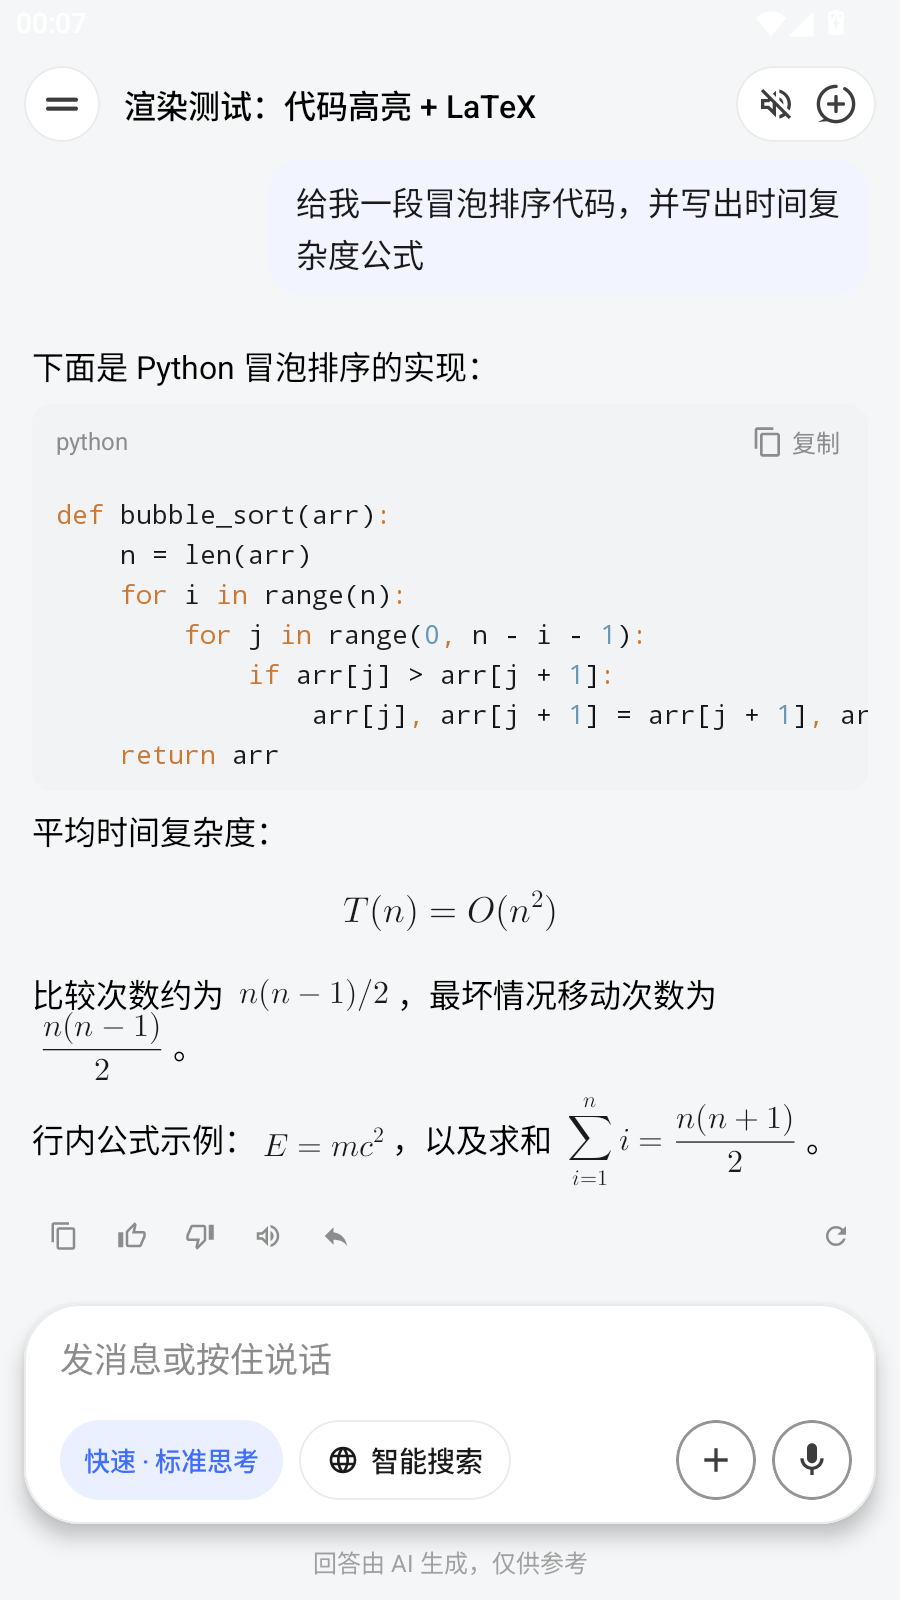
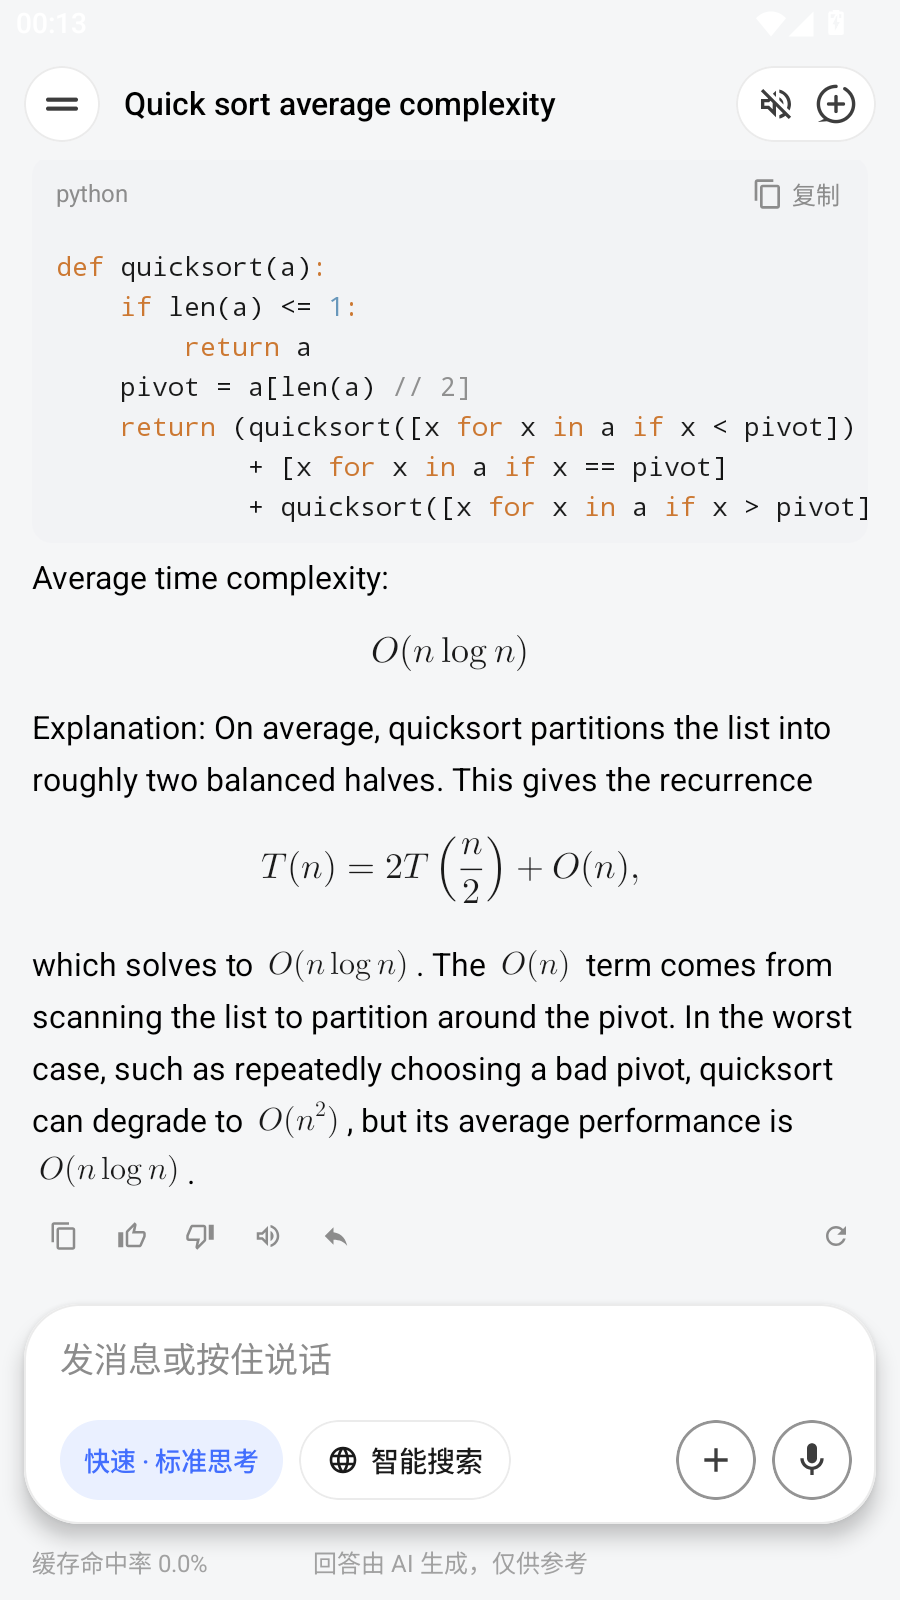
fix: LaTeX 支持 \[ \] 与行内 \( \) 定界符，解码 HTML 实体；docs: 真机联调截图

diff --git a/app/src/main/kotlin/com/deepseekclone/app/ui/markdown/MarkdownText.kt b/app/src/main/kotlin/com/deepseekclone/app/ui/markdown/MarkdownText.kt
@@ -197,7 +197,7 @@ private fun MathBlock(latex: String) {
  */
 @Composable
 private fun RichText(text: String, style: TextStyle) {
-    if (!text.contains('$')) {
+    if (!text.contains('$') && !text.contains("\\(")) {
         Text(text = inline(text), style = style)
         return
     }
@@ -439,6 +439,51 @@ private fun buildInline(text: String, linkColor: Color, codeBg: Color): Annotate
     }
 }
 
+/** 解码模型偶尔输出的 HTML 实体（&#128176; / &amp; 等，允许双重转义）。 */
+private fun decodeHtmlEntities(text: String): String {
+    var current = text
+    repeat(3) {
+        val next = decodeOnce(current)
+        if (next == current) return current
+        current = next
+    }
+    return current
+}
+
+private fun decodeOnce(text: String): String {
+    if (!text.contains('&')) return text
+    val named = mapOf(
+        "amp" to "&", "lt" to "<", "gt" to ">", "quot" to "\"", "apos" to "'", "nbsp" to " ",
+        "hellip" to "…", "mdash" to "—", "ndash" to "–", "middot" to "·",
+    )
+    val sb = StringBuilder(text.length)
+    var i = 0
+    while (i < text.length) {
+        val c = text[i]
+        if (c == '&') {
+            val end = text.indexOf(';', i + 1)
+            if (end in (i + 2)..(i + 10)) {
+                val entity = text.substring(i + 1, end)
+                val decoded = when {
+                    entity.startsWith("#x") || entity.startsWith("#X") ->
+                        entity.drop(2).toIntOrNull(16)?.let { cp -> if (cp in 1..0x10FFFF) String(Character.toChars(cp)) else null }
+                    entity.startsWith("#") ->
+                        entity.drop(1).toIntOrNull()?.let { cp -> if (cp in 1..0x10FFFF) String(Character.toChars(cp)) else null }
+                    else -> named[entity]
+                }
+                if (decoded != null) {
+                    sb.append(decoded)
+                    i = end + 1
+                    continue
+                }
+            }
+        }
+        sb.append(c)
+        i++
+    }
+    return sb.toString()
+}
+
 private sealed interface MdBlock {
     data class Heading(val level: Int, val text: String) : MdBlock
     data class Paragraph(val text: String) : MdBlock
@@ -462,12 +507,13 @@ private fun plainTextOf(block: MdBlock): String = when (block) {
 
 private val inlineMathMarker = Regex("^\\$\\$(.+)\\$\\$$")
 private val blockMathStart = Regex("^\\$\\$")
-private val bracketMathStart = Regex("^\\\\\\\\\\[")
-private val bracketMathEnd = Regex("\\\\\\\\\\]$")
+private val bracketMathStart = Regex("""^\\\[""")
+private val bracketMathEnd = Regex("""\\\]$""")
+private val bracketMathInline = Regex("""^\\\[(.+)\\\]$""")
 
 private fun parseBlocks(source: String): List<MdBlock> {
     val blocks = mutableListOf<MdBlock>()
-    val lines = source.replace("\r\n", "\n").split("\n")
+    val lines = decodeHtmlEntities(source).replace("\r\n", "\n").split("\n")
     var i = 0
     while (i < lines.size) {
         val line = lines[i]
@@ -485,6 +531,13 @@ private fun parseBlocks(source: String): List<MdBlock> {
                 }
                 i++
                 blocks += MdBlock.Code(lang, code.toString().trimEnd('\n'))
+            }
+
+            // 单行 \[ ... \]
+            bracketMathInline.matches(trimmed) -> {
+                val latex = bracketMathInline.matchEntire(trimmed)!!.groupValues[1].trim()
+                blocks += MdBlock.Math(latex)
+                i++
             }
 
             // 单行 $$...$$
@@ -547,7 +600,7 @@ private fun parseBlocks(source: String): List<MdBlock> {
                     val next = lines[i].trim()
                     if (next.isEmpty() || next.startsWith("```") || next.startsWith("#") ||
                         next.startsWith(">") || next.startsWith("- ") || next.startsWith("* ") ||
-                        next.startsWith("$$")
+                        next.startsWith("$$") || next.startsWith("\\[")
                     ) break
                     sb.append('\n').append(next)
                     i++

diff --git a/README.md b/README.md
@@ -30,9 +30,13 @@
 |---|---|
 | ![教程](docs/shots/09-api-key-guide.png) | ![侧边栏](docs/shots/10-sidebar.png) |
 
-| 代码高亮 + LaTeX 公式 | 检查更新 |
+| 代码高亮 + LaTeX 公式 | 联网搜索与引用 |
 |---|---|
-| ![渲染](docs/shots/12-syntax-math.png) | ![检查更新](docs/shots/11-check-update.png) |
+| ![渲染](docs/shots/12-syntax-math.png) | ![搜索](docs/shots/13-search.png) |
+
+| PDF / 文件输入 | 检查更新 |
+|---|---|
+| ![文件](docs/shots/14-file-pdf.png) | ![检查更新](docs/shots/11-check-update.png) |
 
 ---
 
